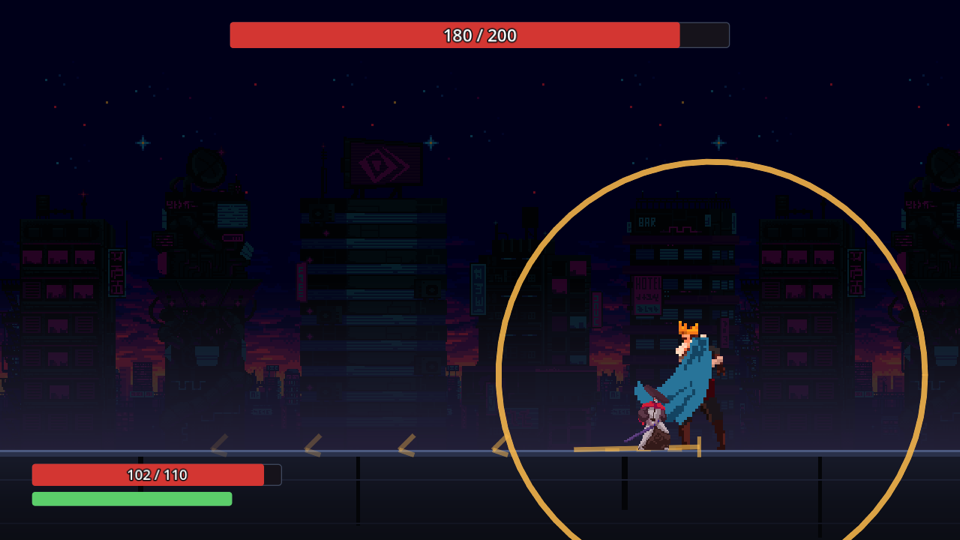
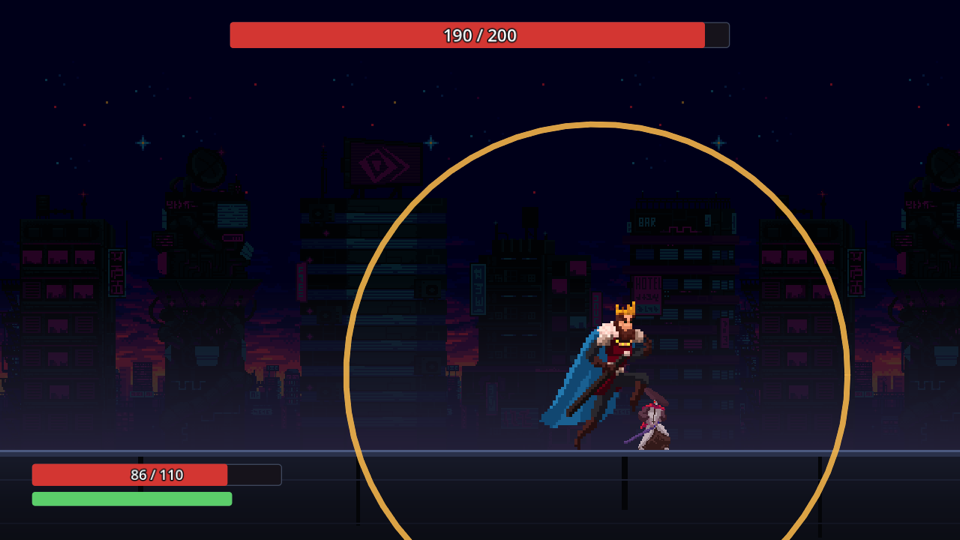
README 와 스크린샷을 1단계 보스 · 두 단계 · 탈진 · 재시도 시드에 맞춘다 (#72)
README 가 이 PR 이 바꾼 것을 전부 말한다: 두 단계와 클리어, 3연격 · 점프 공격과 그 답, 어느 타든 받아치면 1.5초 탈진, 재시도마다 다른 시드와 데모로 되살리기, 망 절의 옛 문장(점프 축에 근거가 없다 · 변종 후보 · 한 번 만든 보스는 고정). 스크린샷은 세션 시드 51 로 다시 찍었고, 옛 변종을 찍던 여섯 장(예고 셋 · 빨간 마무리 · 가드 불가 예고 · 헛스윙)을 지우고 공중의 점프 공격 · 2단계 두 장을 더했다.

diff --git a/README.md b/README.md
@@ -14,25 +14,25 @@
 
 ## 무슨 게임인가
 
-평평한 보스방 하나에서 보스 하나를 잡는 **2D 가로 소울라이크**다. 세 단계를 넘으며 보스가 조금씩 달라진다.
+평평한 보스방 하나에서 보스 하나를 잡는 **2D 가로 소울라이크**다. 보스는 **두 단계**다 — 1단계를 이기면 2단계가
+서고, 2단계를 이기면 클리어다. 지면 같은 단계를 다시 한다.
 
 보스는 [나인 솔즈](https://ninesols.wiki.gg/)의 튜토리얼 보스 **백장**을 참고했다. 느리고 예측
 가능해서, **패리와 대시를 가르치기 위해 설계된 상대**다.
 
-**기술은 하나다 — 내려찍기 3연타.** 늘어나는 것은 종류가 아니라 **변종**이고, 변종은 당신이
-기대는 답을 하나씩 막는다. 딥러닝이 고를 것이 바로 이 변종이라, 프로토타입은 계열 하나로 먼저 세운다.
+**패턴은 그림에 맞춰 만든다.** 보스 그림의 한 장 한 장이 규칙의 한 단계이고, 칼에 그려진 흰 궤적이 그대로
+판정이다 — 보이는 것이 곧 맞는 것이다. 1단계의 패턴은 둘이다.
 
-| | 무엇을 막나 |
-|---|---|
-| **1단계 — 내려찍기 I** | 아무것도 안 막는다. 네 답이 다 쓰인다 — 가드는 호박 두 대까지고 빨간 마무리는 받아치거나 피한다. 당신이 무엇에 기대는지를 **재는** 단계다 |
-| **II·III-끌기** | **대시.** 마무리를 밖으로 한 대시의 착지점에 세운다. 붙어 있으면 안 맞는다 |
-| **II·III-쇄도** | **간격.** 마무리의 사거리가 도주로를 덮는다. 붙어 싸우면 아무 차이도 없다 |
-| **II-쐐기** | **가드.** 빨간 넷째가 26 으로 무겁다 — 붙든 가드는 거기서 깨지고 다른 변종(14)의 두 배 가까이를 문다 |
-| **III-쐐기** | **가드.** 셋째가 무거워(42) 붙든 가드의 스태미나가 빨간 마무리 **전에** 바닥난다 — 무너진 채로 빨강을 맞는다. 붙들지 않는 사람에게는 2단계와 한 틱도 안 다르다 |
-| **III-역린** | **패리.** 판정 없는 헛스윙이 하나 섞인다 — 거기 지르면 0.33초 커밋이 풀리자마자 마무리가 와서, 보고 다시 누를 틈이 없다 |
-| **III-역습** | **욕심.** 2타 뒤의 1.10초는 칼이 들어가는 미끼다. 이 변종만 거기에 판정을 끼운다 — 2타 직후에 지른 칼을 휘두르는 도중에 친다 |
+| | 무엇이 오나 | 답 |
+|---|---|---|
+| **3연격** | 칼을 든 채 잠깐 멈췄다가(그 자세가 예고다) 세 번 벤다 — 피해 8 · 8 · 14 | 다 된다 — 대시 · 가드 · 패리 · 간격. 점프는 낮게 베는 1타만 넘는다 |
+| **점프 공격** | 웅크렸다가 **당신이 선 자리를 향해** 뛰어올라, 착지하며 **바닥 전체**를 친다 — 피해 12 | 가드와 점프. **패리는 안 받는다** |
 
-원칙은 하나다 — **저격 대상이 아닌 사람에겐 1단계와 같은 난이도여야 한다.** 봉인이지 벌이 아니다.
+**1단계는 당신이 무엇에 기대는지를 재는 자리다.** 2단계는 아직 1단계와 같은 두 패턴으로 돈다 — 1단계의 습관을
+겨냥하는 2단계 패턴은 다음 작업이다.
+
+**재시도할 때마다 보스가 달라진다.** 전투가 설 때마다 새 시드가 나와 패턴의 순서가 대개 바뀐다. 지금은 무작위로
+고르고, 망이 들어오면 그 자리에서 당신의 기록을 읽는다.
 
 몸은 서로 통과한다. 밀어내지 않으니 갇히지 않고, 대신 "거리"는 벽이 아니라 **패턴의 안전 구역**이 만든다.
 
@@ -47,34 +47,25 @@
 안에 온 판정을 받아친다(피해 0). 창을 놓치면 **그냥 맞는다.** 받아쳤으면 남은 커밋을 기다리지 않는다 —
 `J` 가 곧장 반격의 1타로 나간다.
 
-1·2타를 받아친 상은 **피해 0 뿐**이다. 보스는 안 굳고 화면도 안 멈춘다 — 그래야 3타가 오는 시각이
-무엇을 하든 같고, 그래야 이 계열을 외울 수 있다.
-
-**마무리(3타)만 다른 물건이다.** 예고가 빨갛고 **가드로 못 막는다** — 빨강은 이 게임에서 한 가지
-뜻, 받아쳐라다. 받아치면 보스가 **2.3초** 굳고, 곧장 누른 2연격이 닿기까지(약 1.1초)가 그 안에 넉넉히 들어간다.
-"버티다가 → 빨간 것을 받아치고 → 제일 센 걸 꽂는다" 가 한 동작으로 이어지는 것이 이 게임의 고리이고,
-**1단계부터 그렇다.**
+**어느 타든 받아치면 보스가 무너진다.** 하던 연격이 그 자리에서 끊기고(남은 타격은 안 온다) 보스가 **1.5초**
+탈진한다 — 맞은 자세로 굳은 채 푸르게 선다. 곧장 누른 2연격이 닿기까지(약 1.1초)가 그 안에 들어간다.
+"버티다가 → 받아치고 → 제일 센 걸 꽂는다" 가 한 동작으로 이어지는 것이 이 게임의 고리다.
 
 ---
 
 ## 화면
 
-보스의 선딜 링은 "뭔가 온다" 까지만 말한다. 계열이 하나라 그것만으로는 아홉 변종이 같은 공격이고,
-모션도 같다(같은 기술이니 당연하다). **그래서 변종을 가르는 것은 칼 위에 얹히는 표지 하나다.**
+**예고는 보스의 그림이다.** 3연격은 칼을 든 장에, 점프 공격은 웅크린 장에 잠깐 멈춰 선다 — 무엇이 오는지는
+그 자세가, 언제 오는지는 조여 드는 링이 말한다. 1단계에는 가드로 못 막는 판정이 없다 — 옛 변종의 표지와 빨간
+마무리(危)는 변종과 같이 걷었다.
 
-| <img src="docs/shots/battle-6a-tell-1.png" width="290"> | <img src="docs/shots/battle-6a-tell-2.png" width="290"> | <img src="docs/shots/battle-6a-tell-3.png" width="290"> |
-|---|---|---|
-| 끌리는 칼 — 계열의 밑그림 | 그 위에 얹힌 변종의 표지 | 다른 변종, 다른 표지 |
-
-**빨강은 한 가지 뜻이다 — 가드로 못 막는다, 받아쳐라.** 마무리(3타) 앞에서 예고가 **호박에서
-빨강으로** 바뀌고 그 위에 **危** 한 글자가 뜬다. 둘은 같은 말을 하지만 통로가 다르다: 빨강과 호박은
-적록 색각 이상에서 **같은 겨자색**이 되고 밝기만 조금 다르다. 링은 한 번에 하나만 뜨니 "밝은 쪽인가"
-를 싸우면서 맞혀야 하는데, 그건 믿을 신호가 아니다 — 그 사람들에게 이 대가 다르다고 말하는 것은
-글자의 모양뿐이다.
-
-| <img src="docs/shots/battle-6-windup.png" width="420"> | <img src="docs/shots/battle-6b-finisher-tell.png" width="420"> |
+| <img src="docs/shots/battle-6-windup.png" width="420"> | <img src="docs/shots/battle-6a-leap.png" width="420"> |
 |---|---|
-| 1·2타 — 호박. 막아도 된다 | 마무리 — 빨강 + 危. 가드로는 못 막는다 (1단계) |
+| 보스의 선딜 — 그 패턴의 예고 자세에 멈춰 서고, 링이 조여 든다 | 점프 공격 — 당신 쪽으로 뛰어 착지에 바닥 전체를 친다 |
+| <img src="docs/shots/battle-10d-parry.png" width="420"> | <img src="docs/shots/battle-10e-boss-exhausted.png" width="420"> |
+| 받아친 순간 | 받아쳐 무너진 보스 — 1.5초 동안 푸르게 선다 |
+| <img src="docs/shots/battle-10b-guard-break.png" width="420"> | <img src="docs/shots/battle-11-stage-2.png" width="420"> |
+| 붙든 가드 — 스태미나가 바닥나 깨진 순간 | 2단계의 결과 화면 — 1단계를 이기면 2단계가 선다 |
 
 | | |
 |---|---|
@@ -98,6 +89,9 @@
 python3 tools/install_assets.py    # 그림은 저장소에 없다 — 받아둔 zip 에서 푼다
 tools/build.sh run
 ```
+
+재시도마다 보스의 순서가 바뀐다. 한 판을 다시 보려면 게임 로그의 `[run][I] attempt=… stage=S seed=X` 를
+헤드리스 데모에 넘긴다 — `EXTRA=--stage=S tools/build.sh demo X` 가 그 시도의 보스 순서로 봇 한 판을 돈다.
 
 ---
 
@@ -129,10 +123,9 @@ tools/build.sh run
 축마다 **몇 건의 근거로 나온 값인지**를 같이 싣는다. "3건으로 낸 0.5" 와 "300건으로 낸 0.5" 는 다르고,
 망이 그 차이를 알아야 한다.
 
-> 지금은 점프와 관련된 축 셋(`jump_reliance` · `jump_timing_bias` · `airborne_at_impact`)에 근거가 없다.
-> 보스가 내려찍기 한 계열이라 **점프로 넘을 수 있는 판정이 하나도 없기 때문**이다. 축을 지우지 않는 것은
-> 근거가 없으면 0 이고 그 얇기를 건수가 같이 나르기 때문이고, 무엇보다 축 목록이 곧 망의 입력 모양이라
-> 뺐다 넣는 편이 훨씬 비싸다.
+> 점프와 관련된 축 셋(`jump_reliance` · `jump_timing_bias` · `airborne_at_impact`)은 이제 근거가 선다 —
+> 3연격의 1타와 점프 공격의 착지는 점프로 넘는다. "점프로 넘을 수 있었나" 는 패턴의 태그가 아니라 **판정마다**
+> 그 모양과 캐릭터의 점프로 잰다: 3연격은 태그로는 "넘을 수 있다" 이지만 2 · 3타는 칼이 점프보다 높다.
 
 **② 패턴 태그** — 패턴마다 손으로 적어둔 성질이다. 패리 가능 여부와 그 창, 대시 창과 방향, 뛰어넘을 수
 있는지, 대공인지, 욕심을 벌하는지, 사거리, 다단히트 수, 추적 여부.
@@ -169,13 +162,14 @@ tools/build.sh run
 
 ### 그 예측으로 보스를 어떻게 정하나
 
-단계를 넘을 때 **변종 후보 전부를 망으로 점수 매기고**, 두 규칙으로 고른다.
+2단계에서 **후보 패턴 전부를 망으로 점수 매기고**, 두 규칙으로 고른다. 읽는 것은 1단계의 기록과 2단계를
+다시 한 기록이다.
 
 ```
-관측: 대시 의존도 0.8 · 늘 밖으로 뺀다
+관측: 대시로만 피한다
 
 다음 보스:
-  · II-끌기  ← 그 착지점에 마무리를 세운다
+  · 1타 → 잡기  ← 대시의 무적을 안 받는 잡기 (2단계 패턴 — 다음 작업)
   · 그리고 아직 안 막힌 것 하나          ← 숨통
 ```
 
@@ -186,14 +180,14 @@ tools/build.sh run
 
 실패율이 높은 축을 더 요구하는 **약점 저격은 하지 않는다** — 데스 스파이럴이 되고 초보자일수록 가혹해진다.
 
-한 번 만들어진 보스의 패턴은 **고정이다.** 재시도해도 안 바뀐다. 덕분에 선택이 단계 사이에 한 번만
-일어나고 실시간 추론이 없다.
+고르기는 **시도를 시작할 때 한 번** 세운다. 판 도중에는 안 바뀌고, 지고 다시 하면 그때까지의 기록으로
+다시 세운다 — 실시간 추론이 없다.
 
 ### 그래서 지금이 무작위다
 
-일부러다. 자리는 한 줄이고, 망이 나중에 **그 한 줄을 갈아끼운다.** 그러면 지금의 무작위가
-**대조군이 된다** — 같은 플레이어에게 무작위 보스와 망 보스를 붙여 비교하는 것 말고
-망이 정말 일하는지 증명할 방법이 없다.
+일부러다. 자리는 고르기 등록표(`stages.json` 의 `picker`)이고, 망은 나중에 **구현을 하나 더한다.** 그러면
+지금의 무작위(`uniform`)가 **대조군이 된다** — 같은 플레이어에게 무작위 보스와 망 보스를 붙여 비교하는 것 말고
+망이 정말 일하는지 증명할 방법이 없다. 1단계는 망이 들어와도 무작위다 — 당신이 무엇에 기대는지를 재는 자리라서다.
 
 ### 알고 있는 위험
 
